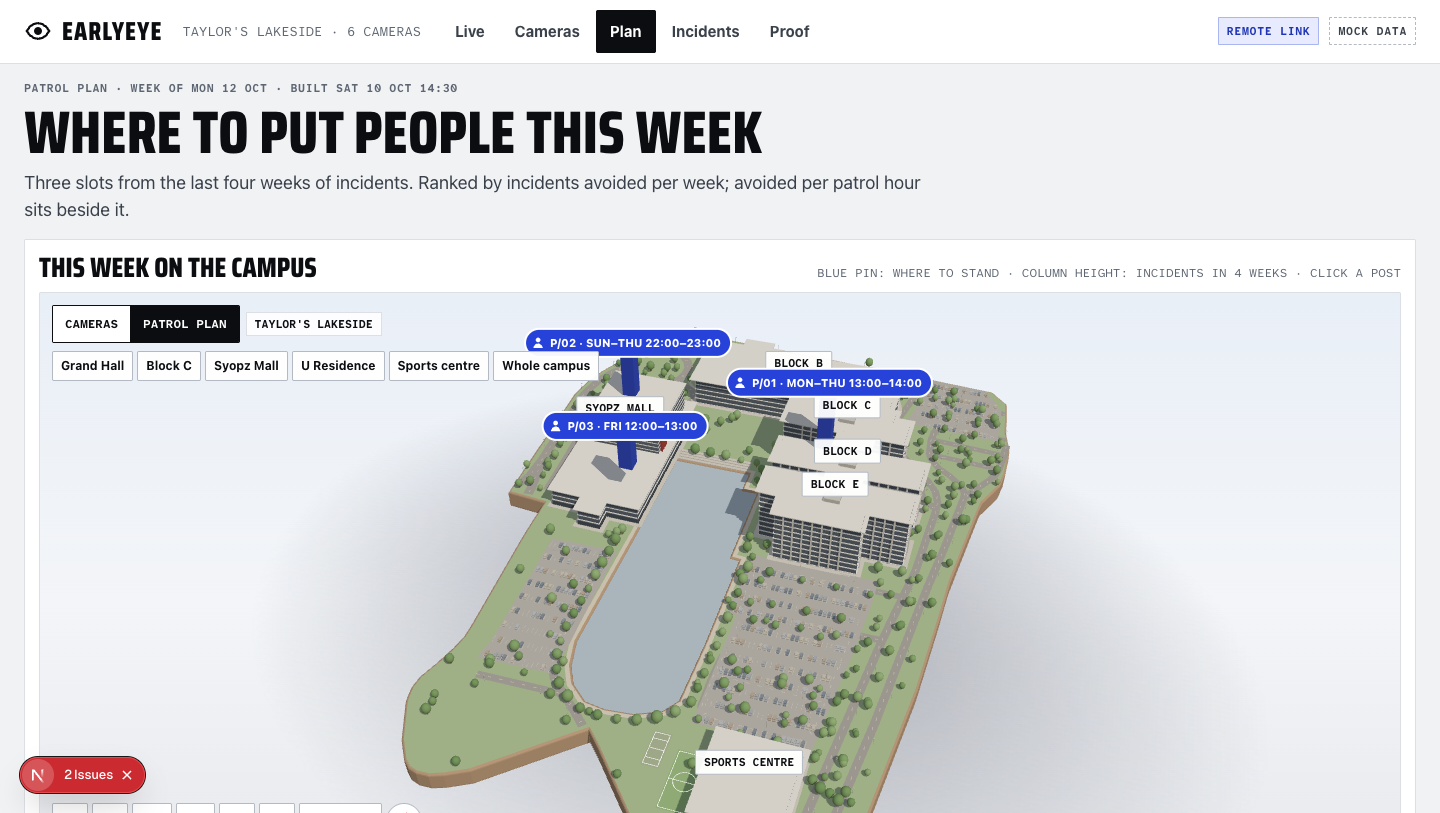
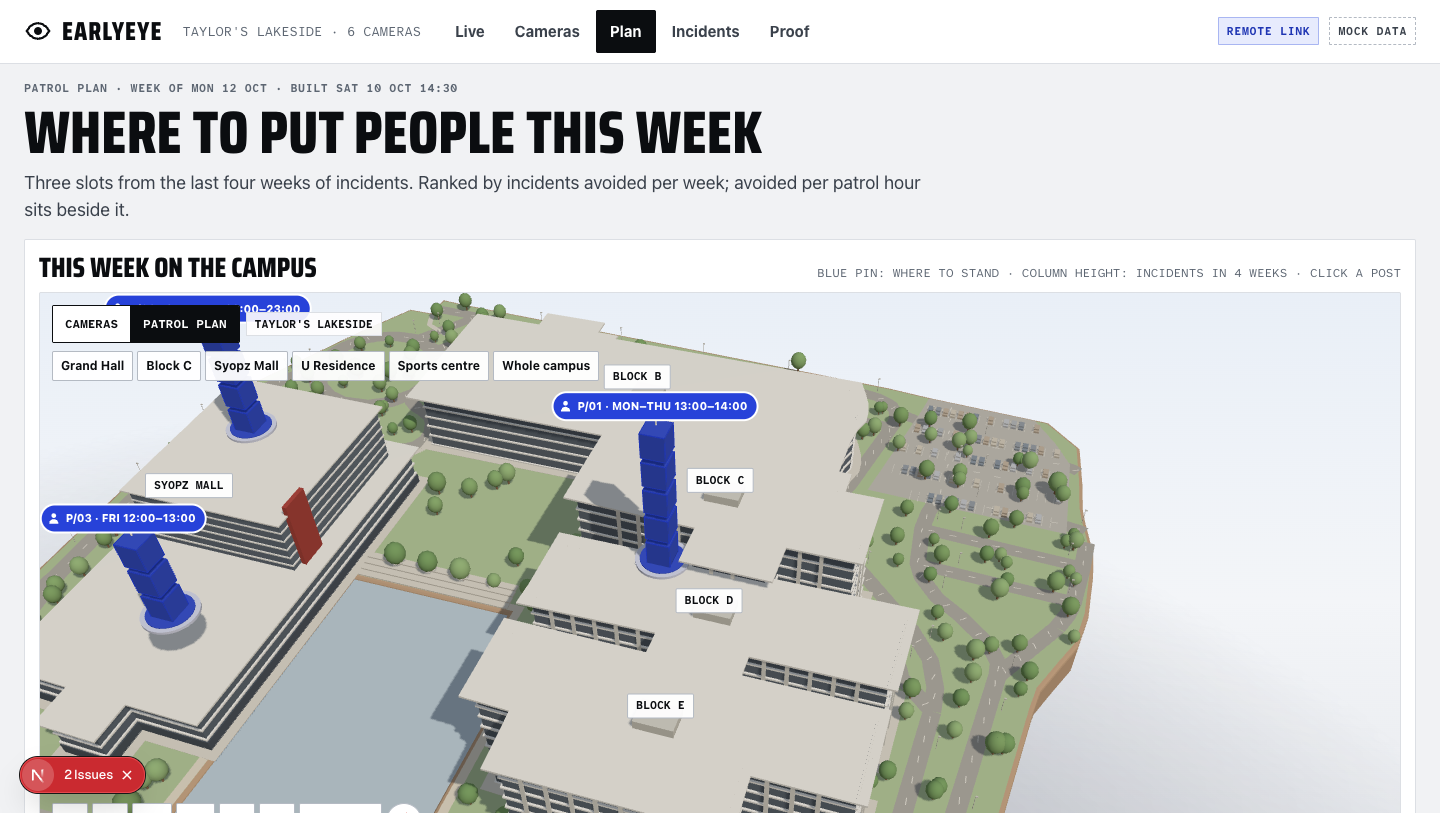
web: patrol posts as one block per incident on a base plate, so the plan bars read at a glance

diff --git a/web/src/components/campus3d/scene.tsx b/web/src/components/campus3d/scene.tsx
@@ -517,7 +517,7 @@ export interface SceneProps {
   /** Receives the building pick meshes so pins can be occluded by them. */
   registerOccluders?: (meshes: THREE.Object3D[]) => void;
   route?: [XY, number, XY, number] | null; // guard → camera, with heights
-  columns?: { at: XY; base: number; height: number; selected: boolean; id: string; onPick: () => void }[];
+  columns?: { at: XY; base: number; height: number; count: number; selected: boolean; id: string; onPick: () => void }[];
 }
 
 export function CampusScene({ campus, ground, selectedBuildingId, alarmBuildingId, pulse, compact, onPickBuilding, registerOccluders, route, columns }: SceneProps) {
@@ -676,20 +676,9 @@ export function CampusScene({ campus, ground, selectedBuildingId, alarmBuildingI
         );
       })}
 
-      {/* Patrol columns (plan layer) */}
+      {/* Patrol posts (plan layer): a stack of one block per incident on a base plate, with a pole up to the pin. */}
       {columns?.map((c) => (
-        <mesh
-          key={c.id}
-          position={[c.at[0], c.base + c.height / 2 + 0.2, -c.at[1]]}
-          castShadow
-          onClick={(e) => {
-            e.stopPropagation();
-            c.onPick();
-          }}
-        >
-          <boxGeometry args={[9, c.height, 9]} />
-          <meshStandardMaterial color={c.selected ? "#1F35B3" : M.column3d} roughness={0.7} />
-        </mesh>
+        <PostStack key={c.id} {...c} />
       ))}
 
       {/* Dashed route from the nearest guard to the alarming camera */}
@@ -706,6 +695,61 @@ export function CampusScene({ campus, ground, selectedBuildingId, alarmBuildingI
           renderOrder={20}
         />
       )}
+    </group>
+  );
+}
+
+/**
+ * A patrol post as a readable bar: one 7 m block per incident in the last 4 weeks
+ * (so five blocks = five incidents), on a round base plate, with a slim pole up
+ * to the pin. Selected posts go darker and get an ink outline.
+ */
+function PostStack({ at, base, count, height, selected, onPick }: { at: XY; base: number; count: number; height: number; selected: boolean; id: string; onPick: () => void }) {
+  const n = Math.max(1, count);
+  const step = height / n; // 9 m per incident
+  const block = step - 1.6;
+  const colour = selected ? "#1F35B3" : M.column3d;
+  const x = at[0];
+  const z = -at[1];
+  return (
+    <group
+      onClick={(e) => {
+        e.stopPropagation();
+        onPick();
+      }}
+      onPointerOver={() => {
+        document.body.style.cursor = "pointer";
+      }}
+      onPointerOut={() => {
+        document.body.style.cursor = "";
+      }}
+    >
+      {/* base plate */}
+      <mesh position={[x, base + 0.4, z]} castShadow receiveShadow>
+        <cylinderGeometry args={[7.5, 7.5, 0.8, 32]} />
+        <meshStandardMaterial color="#DDE3FB" roughness={0.9} />
+      </mesh>
+      <mesh position={[x, base + 0.85, z]}>
+        <cylinderGeometry args={[6.2, 6.2, 0.3, 32]} />
+        <meshStandardMaterial color={colour} roughness={0.8} />
+      </mesh>
+      {/* one block per incident */}
+      {Array.from({ length: n }, (_, i) => (
+        <mesh key={i} position={[x, base + 1 + i * step + block / 2, z]} castShadow receiveShadow>
+          <boxGeometry args={[6.5, block, 6.5]} />
+          <meshStandardMaterial color={colour} roughness={0.75} />
+          <Edges threshold={15} color={selected ? "#0B0D10" : "#1F35B3"} lineWidth={1.2} />
+        </mesh>
+      ))}
+      {/* pole up to the pin */}
+      <mesh position={[x, base + 1 + height + 1.5, z]}>
+        <cylinderGeometry args={[0.25, 0.25, 4, 8]} />
+        <meshStandardMaterial color="#FFFFFF" roughness={0.6} />
+      </mesh>
+      <mesh position={[x, base + 1 + height + 3.6, z]}>
+        <sphereGeometry args={[0.9, 12, 10]} />
+        <meshStandardMaterial color={colour} roughness={0.6} />
+      </mesh>
     </group>
   );
 }

diff --git a/web/src/components/campus3d/campus3d.tsx b/web/src/components/campus3d/campus3d.tsx
@@ -282,7 +282,7 @@ export default function Campus3D({
   const columns = useMemo(
     () =>
       !compact && layer === "plan"
-        ? posts.map((p) => ({ id: p.id, at: geoToLocal(p.geo), base: columnBase(p), height: p.incidents4w * 9, selected: selPost?.id === p.id, onPick: () => setSel({ kind: "post", id: p.id }) }))
+        ? posts.map((p) => ({ id: p.id, at: geoToLocal(p.geo), base: columnBase(p), height: p.incidents4w * 9, count: p.incidents4w, selected: selPost?.id === p.id, onPick: () => setSel({ kind: "post", id: p.id }) }))
         : [],
     [compact, layer, posts, selPost?.id, columnBase],
   );
@@ -378,7 +378,7 @@ export default function Campus3D({
           {!compact &&
             layer === "plan" &&
             posts.map((p) => (
-              <Html key={p.id} position={anchor(p.geo, columnBase(p) + p.incidents4w * 9 + 4)} zIndexRange={[20, 15]} style={{ pointerEvents: "none" }}>
+              <Html key={p.id} position={anchor(p.geo, columnBase(p) + p.incidents4w * 9 + 6)} zIndexRange={[20, 15]} style={{ pointerEvents: "none" }}>
                 <PostPin post={p} pos={ZERO} selected={sel?.kind === "post" && sel.id === p.id} onClick={() => setSel({ kind: "post", id: p.id })} />
               </Html>
             ))}
